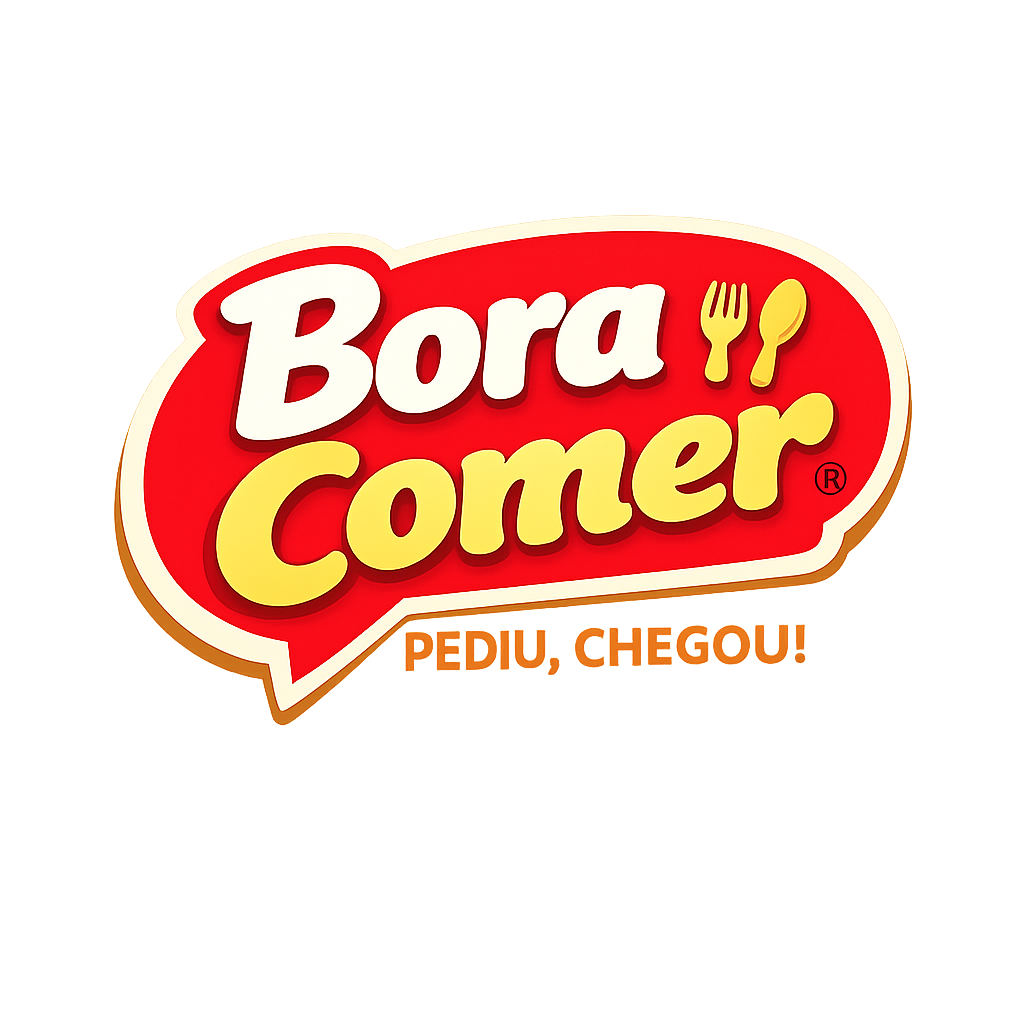
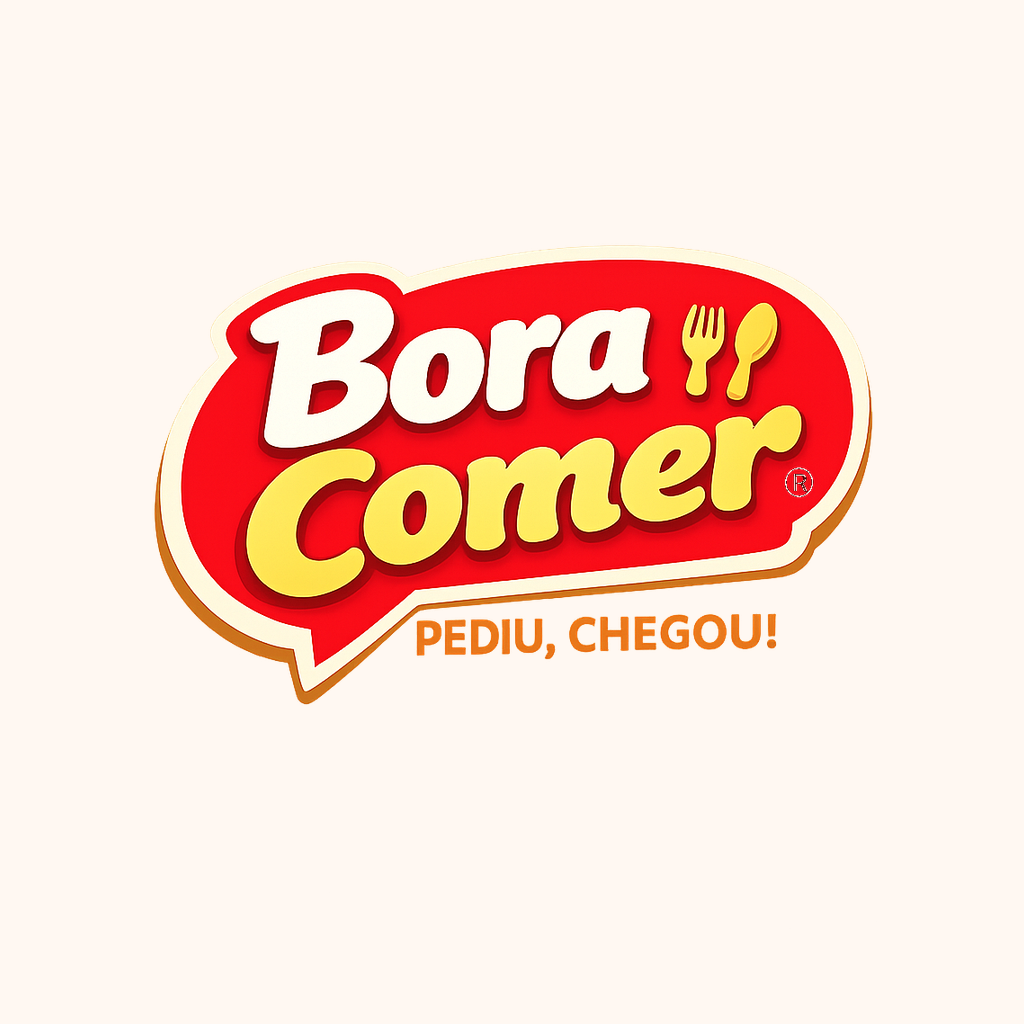
fix: ícone Bora Comer com fundo claro e erros claros da OpenAI

Changed region(s): [[0.0938, 0.2188, 0.9062, 0.7188]]

diff --git a/functions/lib/recommendRestaurantsWithAI.js b/functions/lib/recommendRestaurantsWithAI.js
@@ -1,13 +1,59 @@
 "use strict";
-var __importDefault = (this && this.__importDefault) || function (mod) {
-    return (mod && mod.__esModule) ? mod : { "default": mod };
+var __createBinding = (this && this.__createBinding) || (Object.create ? (function(o, m, k, k2) {
+    if (k2 === undefined) k2 = k;
+    var desc = Object.getOwnPropertyDescriptor(m, k);
+    if (!desc || ("get" in desc ? !m.__esModule : desc.writable || desc.configurable)) {
+      desc = { enumerable: true, get: function() { return m[k]; } };
+    }
+    Object.defineProperty(o, k2, desc);
+}) : (function(o, m, k, k2) {
+    if (k2 === undefined) k2 = k;
+    o[k2] = m[k];
+}));
+var __setModuleDefault = (this && this.__setModuleDefault) || (Object.create ? (function(o, v) {
+    Object.defineProperty(o, "default", { enumerable: true, value: v });
+}) : function(o, v) {
+    o["default"] = v;
+});
+var __importStar = (this && this.__importStar) || function (mod) {
+    if (mod && mod.__esModule) return mod;
+    var result = {};
+    if (mod != null) for (var k in mod) if (k !== "default" && Object.prototype.hasOwnProperty.call(mod, k)) __createBinding(result, mod, k);
+    __setModuleDefault(result, mod);
+    return result;
 };
 Object.defineProperty(exports, "__esModule", { value: true });
 exports.recommendRestaurantsWithAI = void 0;
 const https_1 = require("firebase-functions/v2/https");
-const openai_1 = __importDefault(require("openai"));
+const openai_1 = __importStar(require("openai"));
 const firebaseAdmin_1 = require("./firebaseAdmin");
 const openaiSecret_1 = require("./openaiSecret");
+function mapOpenAiError(e) {
+    var _a;
+    if (e instanceof openai_1.APIError) {
+        const status = e.status;
+        const code = typeof e.code === 'string' ? e.code : '';
+        console.error('[recommendRestaurantsWithAI] OpenAI APIError', {
+            status,
+            code,
+            type: e.type,
+            message: (_a = e.message) === null || _a === void 0 ? void 0 : _a.slice(0, 300),
+        });
+        if (status === 401 || code === 'invalid_api_key') {
+            return 'Chave OpenAI inválida ou revogada no servidor (secret OPENAI_API_KEY). Atualize em firebase functions:secrets:set OPENAI_API_KEY e faça deploy das functions.';
+        }
+        if (status === 429 || code === 'rate_limit_exceeded' || code === 'insufficient_quota') {
+            return 'Cota ou limite da OpenAI esgotado (billing/quota). Verifique uso e pagamento em platform.openai.com e tente de novo depois.';
+        }
+        if (status === 503 || status === 500) {
+            return 'A OpenAI está instável no momento. Tente novamente em alguns instantes.';
+        }
+    }
+    else {
+        console.error('[recommendRestaurantsWithAI] Erro na API OpenAI:', e);
+    }
+    return 'Não foi possível gerar recomendações no momento. Tente novamente em alguns instantes.';
+}
 const CHATBOT_CONFIG_DOC = 'global-chatbot-config';
 const MAX_USER_MESSAGE = 4000;
 const MAX_HISTORY_MESSAGES = 24;
@@ -243,7 +289,14 @@ function cardsInstructionsFor(threshold) {
             return 'Seja conservador ao recomendar restaurantes. Apenas mostre cards quando o usuário pedir explicitamente ou a conversa claramente indicar que está pronto para ver opções.';
     }
 }
-exports.recommendRestaurantsWithAI = (0, https_1.onCall)({ secrets: [openaiSecret_1.openaiApiKey], region: 'us-central1', cors: true, invoker: 'public' }, async (request) => {
+exports.recommendRestaurantsWithAI = (0, https_1.onCall)({
+    secrets: [openaiSecret_1.openaiApiKey],
+    region: 'us-central1',
+    cors: true,
+    invoker: 'public',
+    timeoutSeconds: 120,
+    memory: '512MiB',
+}, async (request) => {
     var _a, _b;
     const apiKey = openaiSecret_1.openaiApiKey.value();
     if (!apiKey) {
@@ -289,10 +342,9 @@ exports.recommendRestaurantsWithAI = (0, https_1.onCall)({ secrets: [openaiSecre
         content = (_b = (_a = response.choices[0]) === null || _a === void 0 ? void 0 : _a.message) === null || _b === void 0 ? void 0 : _b.content;
     }
     catch (e) {
-        console.error('[recommendRestaurantsWithAI] Erro na API OpenAI:', e);
         return {
             success: false,
-            error: 'Não foi possível gerar recomendações no momento. Tente novamente em alguns instantes.',
+            error: mapOpenAiError(e),
         };
     }
     if (!content) {

diff --git a/functions/src/recommendRestaurantsWithAI.ts b/functions/src/recommendRestaurantsWithAI.ts
@@ -1,8 +1,33 @@
 import { onCall, HttpsError } from 'firebase-functions/v2/https';
-import OpenAI from 'openai';
+import OpenAI, { APIError } from 'openai';
 
 import { admin } from './firebaseAdmin';
 import { openaiApiKey } from './openaiSecret';
+
+function mapOpenAiError(e: unknown): string {
+  if (e instanceof APIError) {
+    const status = e.status;
+    const code = typeof e.code === 'string' ? e.code : '';
+    console.error('[recommendRestaurantsWithAI] OpenAI APIError', {
+      status,
+      code,
+      type: e.type,
+      message: e.message?.slice(0, 300),
+    });
+    if (status === 401 || code === 'invalid_api_key') {
+      return 'Chave OpenAI inválida ou revogada no servidor (secret OPENAI_API_KEY). Atualize em firebase functions:secrets:set OPENAI_API_KEY e faça deploy das functions.';
+    }
+    if (status === 429 || code === 'rate_limit_exceeded' || code === 'insufficient_quota') {
+      return 'Cota ou limite da OpenAI esgotado (billing/quota). Verifique uso e pagamento em platform.openai.com e tente de novo depois.';
+    }
+    if (status === 503 || status === 500) {
+      return 'A OpenAI está instável no momento. Tente novamente em alguns instantes.';
+    }
+  } else {
+    console.error('[recommendRestaurantsWithAI] Erro na API OpenAI:', e);
+  }
+  return 'Não foi possível gerar recomendações no momento. Tente novamente em alguns instantes.';
+}
 
 const CHATBOT_CONFIG_DOC = 'global-chatbot-config';
 
@@ -306,7 +331,14 @@ export interface RecommendRestaurantsWithAIResult {
 }
 
 export const recommendRestaurantsWithAI = onCall(
-  { secrets: [openaiApiKey], region: 'us-central1', cors: true, invoker: 'public' },
+  {
+    secrets: [openaiApiKey],
+    region: 'us-central1',
+    cors: true,
+    invoker: 'public',
+    timeoutSeconds: 120,
+    memory: '512MiB',
+  },
   async (request): Promise<RecommendRestaurantsWithAIResult> => {
     const apiKey = openaiApiKey.value();
     if (!apiKey) {
@@ -363,11 +395,9 @@ export const recommendRestaurantsWithAI = onCall(
       });
       content = response.choices[0]?.message?.content;
     } catch (e) {
-      console.error('[recommendRestaurantsWithAI] Erro na API OpenAI:', e);
       return {
         success: false,
-        error:
-          'Não foi possível gerar recomendações no momento. Tente novamente em alguns instantes.',
+        error: mapOpenAiError(e),
       };
     }
 

diff --git a/src/components/AIRestaurantChat.tsx b/src/components/AIRestaurantChat.tsx
@@ -173,11 +173,11 @@ export default function AIRestaurantChat({ fabBottom }: { fabBottom?: string }) 
   };
 
   const getFallbackResponse = (error: string): string => {
-    if (
-      /OPENAI_API_KEY|não configurad|não estão disponíveis|segredo|administrador/i.test(error) ||
-      error.includes('VITE_OPENAI_API_KEY')
-    ) {
-      return '🤖 As recomendações inteligentes dependem do servidor (Firebase Cloud Function com o segredo OPENAI_API_KEY). Peça ao administrador para configurar o secret e publicar as functions.\n\nEnquanto isso, me conte: que tipo de comida você está procurando hoje? 🍽';
+    if (/chave openai inválida|invalid_api_key|revogada|VITE_OPENAI_API_KEY|OPENAI_API_KEY|não configurad|não estão disponíveis|segredo|administrador/i.test(error)) {
+      return '🤖 A IA está com a chave OpenAI inválida ou não configurada no servidor. Peça ao admin para gerar uma chave nova em platform.openai.com, atualizar o secret OPENAI_API_KEY e republicar as Cloud Functions.\n\nEnquanto isso, me conte: que tipo de comida você está procurando? 🍽';
+    }
+    if (/cota|quota|rate_limit|limite da openai|billing/i.test(error)) {
+      return '🤖 A cota da OpenAI esgotou (billing/limite). Assim que o crédito for renovado, as recomendações voltam.\n\nEnquanto isso, me diga o que você quer comer que eu te ajudo com o que souber! 🍽';
     }
     return '🤔 Interessante! Para te recomendar os melhores restaurantes, me conte mais: você tem preferência por algum tipo de comida específica? Italiana, japonesa, brasileira, lanches... Ou prefere que eu te mostre os mais populares?';
   };

diff --git a/src/services/openaiService.ts b/src/services/openaiService.ts
@@ -152,6 +152,22 @@ class OpenAIService {
 
     } catch (error) {
       console.error('Erro ao enviar mensagem para OpenAI:', error);
+      const status = (error as { status?: number })?.status;
+      const code = (error as { code?: string })?.code;
+      if (status === 401 || code === 'invalid_api_key') {
+        return {
+          success: false,
+          error:
+            'Chave OpenAI inválida ou revogada (VITE_OPENAI_API_KEY). Gere uma nova em platform.openai.com/api-keys e atualize .env / build.',
+        };
+      }
+      if (status === 429 || code === 'rate_limit_exceeded' || code === 'insufficient_quota') {
+        return {
+          success: false,
+          error:
+            'Cota ou limite da OpenAI esgotado. Verifique billing em platform.openai.com.',
+        };
+      }
       return { 
         success: false, 
         error: error instanceof Error ? error.message : 'Erro desconhecido' 
